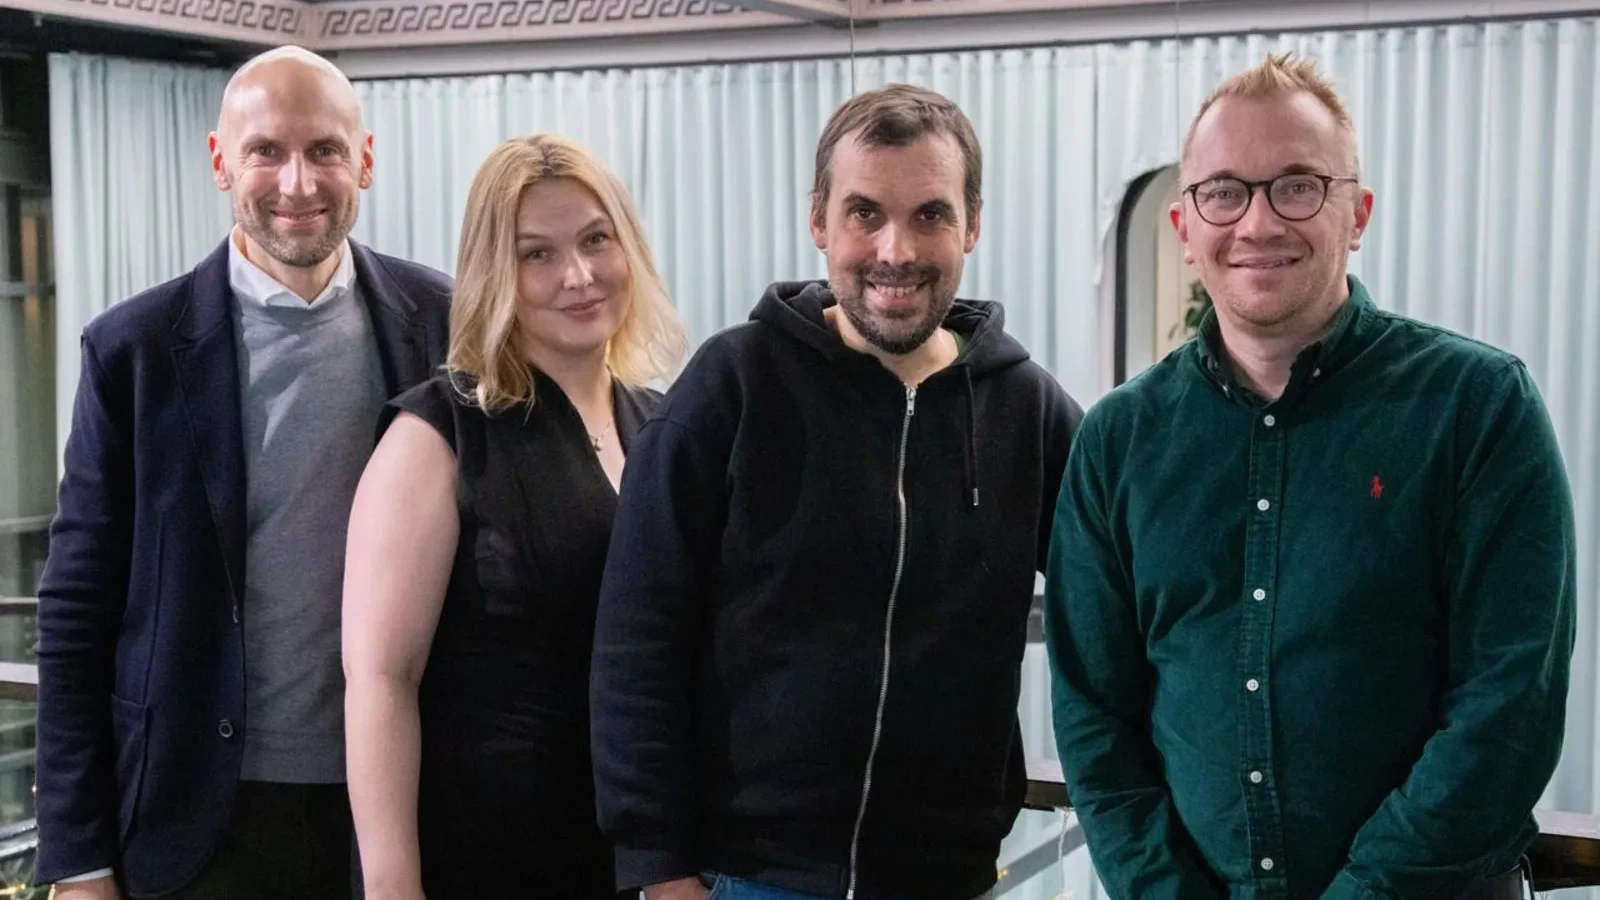
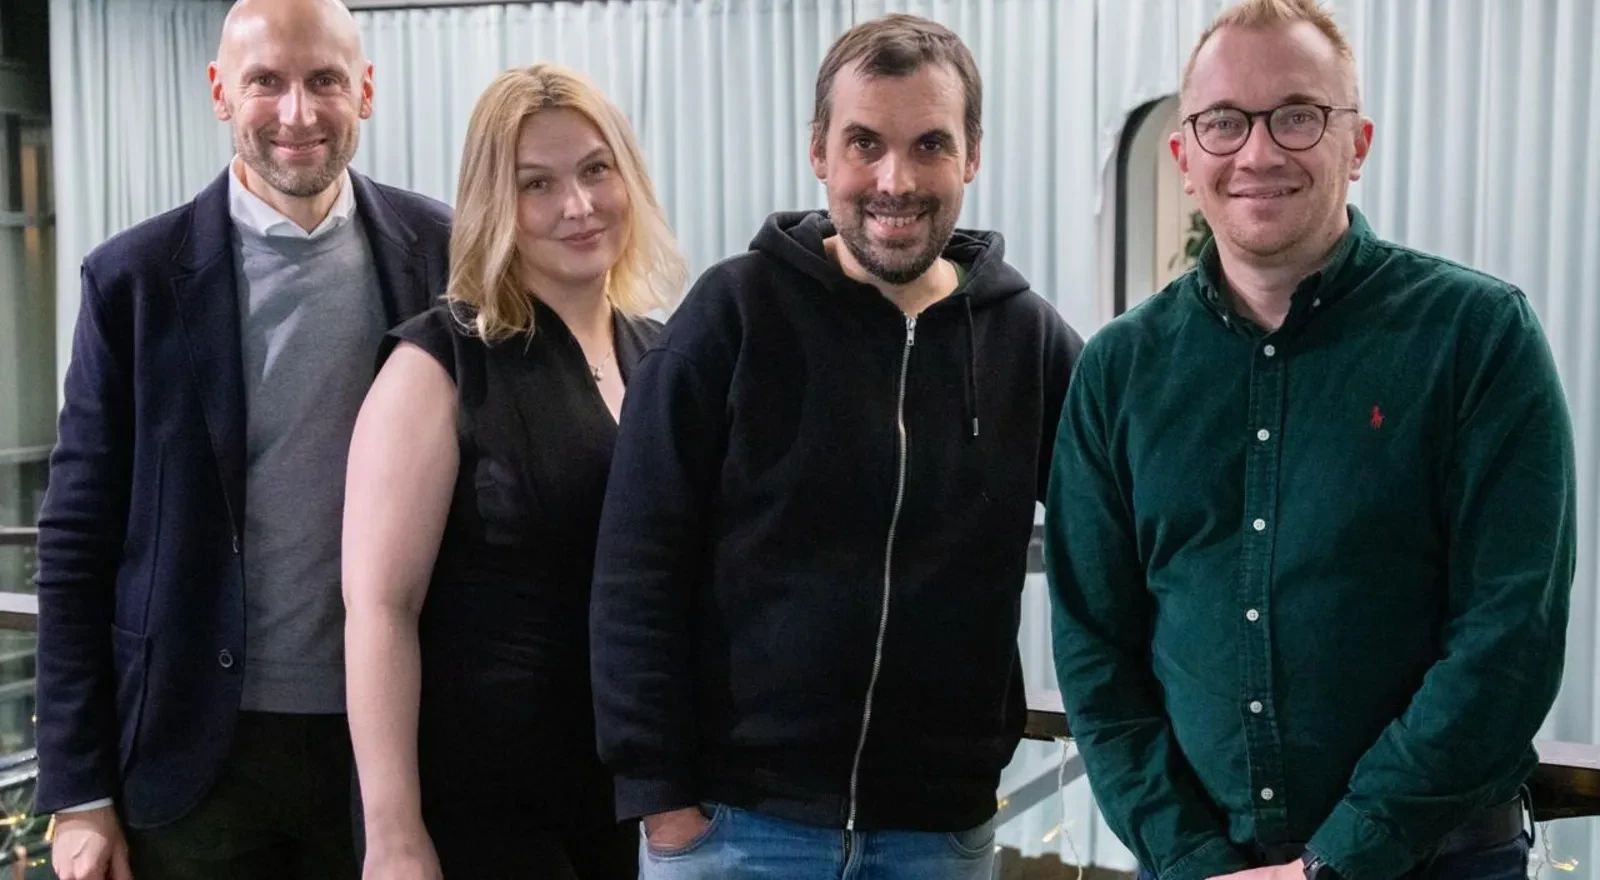
fix: team photo stretch-fill right column, aspect-matched crop so cover barely clips

diff --git a/pitch-draft/index.html b/pitch-draft/index.html
@@ -575,7 +575,7 @@
   .team-layout {
     display: flex;
     gap: 2.5vw;
-    align-items: flex-start;
+    align-items: stretch;
     width: 100%;
   }
 
@@ -591,7 +591,9 @@
 
   .team-photo {
     width: 100%;
-    height: auto;
+    height: 100%;
+    object-fit: cover;
+    object-position: center 20%;
     border-radius: 3px;
     display: block;
   }
